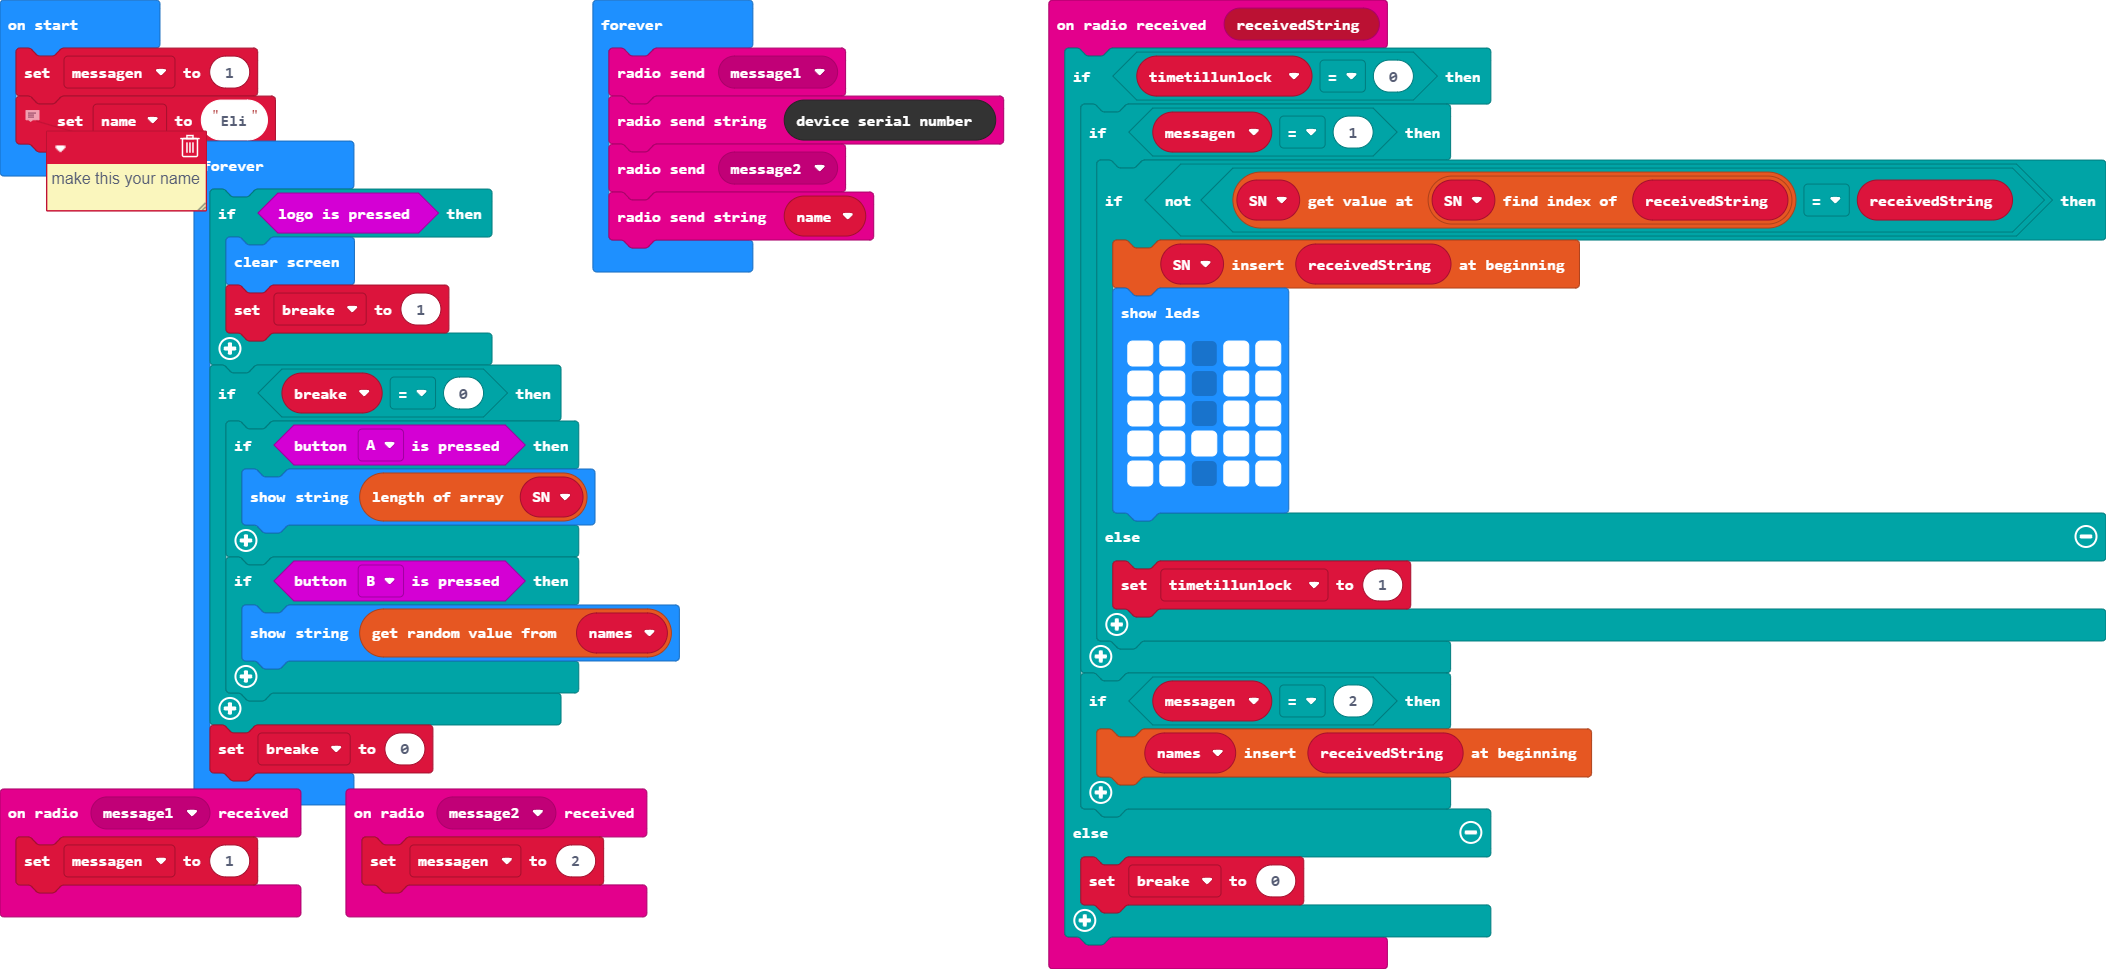
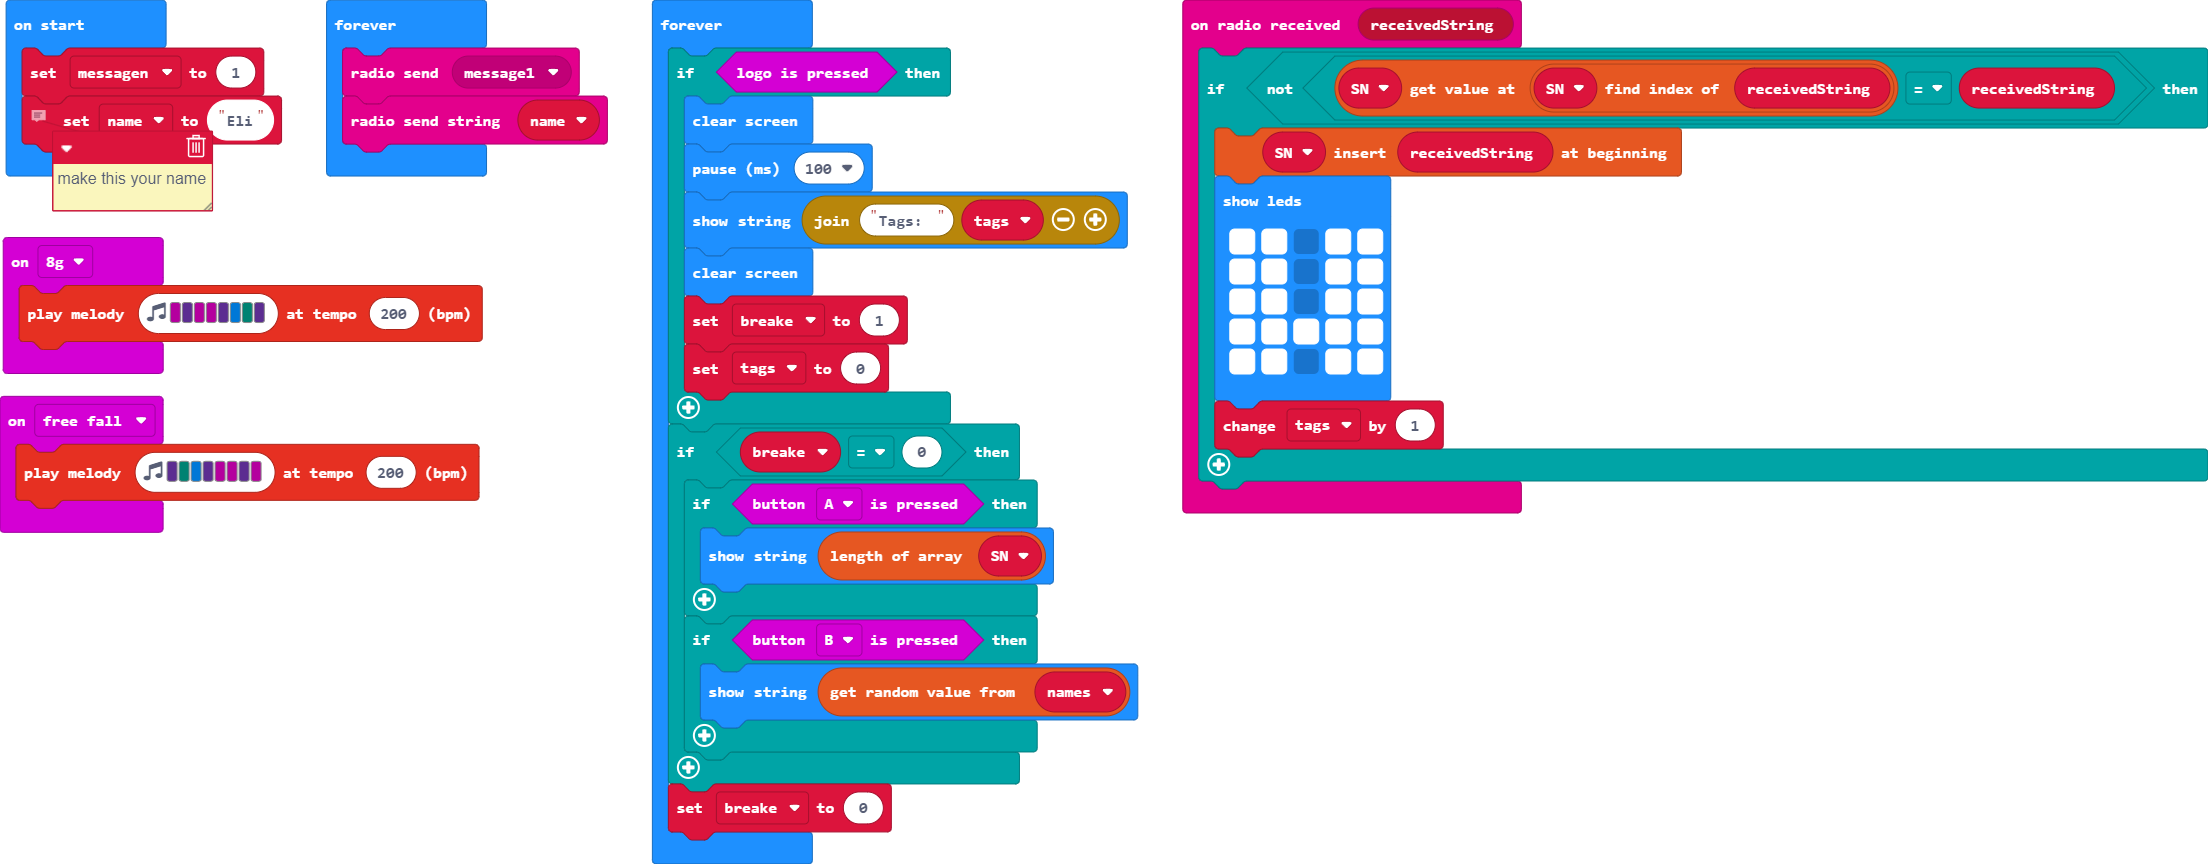
Update pxt.json, main.blocks, main.ts

diff --git a/main.ts b/main.ts
@@ -2,59 +2,50 @@ enum RadioMessage {
     message1 = 49434,
     message2 = 1435
 }
+input.onGesture(Gesture.EightG, function () {
+    music.playMelody("C D C C D E F D ", 200)
+})
+input.onGesture(Gesture.FreeFall, function () {
+    music.playMelody("D F E D C C D C ", 200)
+})
 radio.onReceivedString(function (receivedString) {
-    if (timetillunlock == 0) {
-        if (messagen == 1) {
-            if (!(SN[SN.indexOf(receivedString)] == receivedString)) {
-                SN.unshift(receivedString)
-                basic.showLeds(`
-                    # # . # #
-                    # # . # #
-                    # # . # #
-                    # # # # #
-                    # # . # #
-                    `)
-            } else {
-                timetillunlock = 1
-            }
-        }
-        if (messagen == 2) {
-            names.unshift(receivedString)
-        }
-    } else {
-        breake = 0
+    if (!(SN[SN.indexOf(receivedString)] == receivedString)) {
+        SN.unshift(receivedString)
+        basic.showLeds(`
+            # # . # #
+            # # . # #
+            # # . # #
+            # # # # #
+            # # . # #
+            `)
+        tags += 1
     }
 })
-radio.onReceivedMessage(RadioMessage.message2, function () {
-    messagen = 2
-})
-radio.onReceivedMessage(RadioMessage.message1, function () {
-    messagen = 1
-})
 let breake = 0
-let names: string[] = []
+let tags = 0
 let SN: string[] = []
-let timetillunlock = 0
-let messagen = 0
-messagen = 1
+let messagen = 1
 // make this your name
 let name = "Eli"
 basic.forever(function () {
     radio.sendMessage(RadioMessage.message1)
-    radio.sendString("" + (control.deviceSerialNumber()))
-    radio.sendMessage(RadioMessage.message2)
     radio.sendString(name)
 })
 basic.forever(function () {
     if (input.logoIsPressed()) {
         basic.clearScreen()
+        basic.pause(100)
+        basic.showString("Tags: " + tags)
+        basic.clearScreen()
         breake = 1
+        tags = 0
     }
     if (breake == 0) {
         if (input.buttonIsPressed(Button.A)) {
             basic.showString("" + (SN.length))
         }
         if (input.buttonIsPressed(Button.B)) {
+            let names: number[] = []
             basic.showString("" + (names._pickRandom()))
         }
     }
